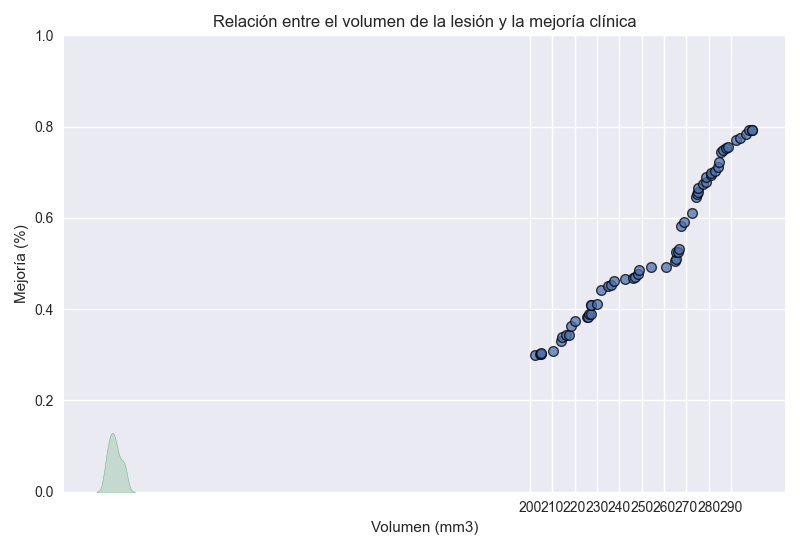
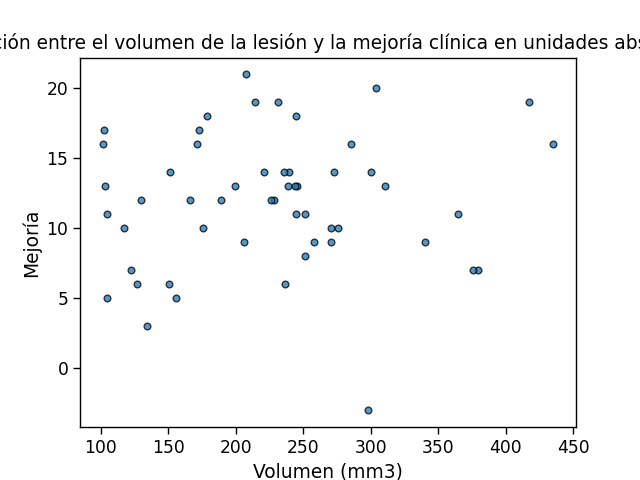
Generación de dos gráficos distintos en un mismo script

diff --git a/Generador_informe/graficos_prueba4.py b/Generador_informe/graficos_prueba4.py
@@ -25,14 +25,23 @@ mejoria_rel = df['Mejoria_Rel_HT']
     # DISEÑO 1
 sns.set_context("paper", font_scale=1.4)
 #plt.xticks(rotation=20)
-plt.title("Relación entre el volumen de la lesión y la mejoría clínica")
-plt.scatter(volumen,mejoria_rel, edgecolor='black',linewidth=1,alpha=0.75)
+plt.title("Relación entre el volumen de la lesión y la mejoría clínica en unidades relativas")
+bplot1 = sns.scatterplot(volumen,mejoria_rel, edgecolor='black',linewidth=1,alpha=0.75)
 
 # Añado etiquetas a los ejes x e y
-plt.ylabel('Mejoría (%)')
-plt.xlabel('Volumen (mm3)')
+bplot1.set(ylabel='Mejoría (%)')
+bplot1.set(xlabel='Volumen (mm3)')
 
-plt.savefig('./Graficos/figure1.png')
-plt.show()
-plt.remove()
+bplot1.figure.savefig('./Graficos/figure1.png')
+#plt.show()
+bplot1.remove()
 
+plt.title("Relación entre el volumen de la lesión y la mejoría clínica en unidades absolutas")
+bplot1 = sns.scatterplot(volumen,mejoria_abs, edgecolor='black',linewidth=1,alpha=0.75)
+
+# Añado etiquetas a los ejes x e y
+bplot1.set(ylabel='Mejoría')
+bplot1.set(xlabel='Volumen (mm3)')
+
+bplot1.figure.savefig('./Graficos/figure2.png')
+bplot1.remove()
